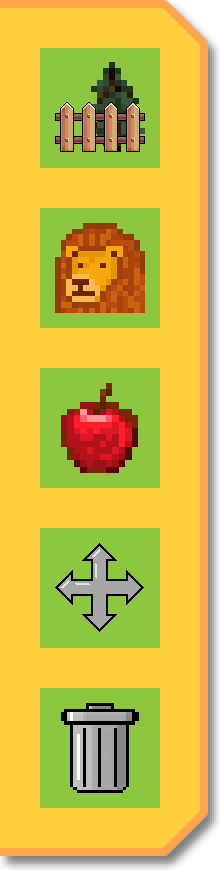
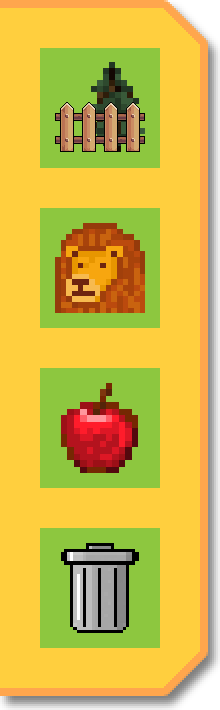
Eliminar menu mover y bugfix al remover habitat

diff --git a/core/src/udec/prog2/project/screens/JuegoScreen.java b/core/src/udec/prog2/project/screens/JuegoScreen.java
@@ -22,9 +22,8 @@ public class JuegoScreen implements Screen {
     private static final int MENU_SIDE_HABITATS = 0;
     private static final int MENU_SIDE_ANIMALES = 1;
     private static final int MENU_SIDE_COMIDAS = 2;
-    private static final int MENU_SIDE_MOVER = 3;
-    private static final int MENU_SIDE_REMOVER = 4;
-    private static final int CANTIDAD_BOTONES_SIDE = 5;
+    private static final int MENU_SIDE_REMOVER = 3;
+    private static final int CANTIDAD_BOTONES_SIDE = 4;
     private static final int FILAS_HABITATS = 3;
     private static final int COLUMNAS_HABITATS = 4;
     private static final int TOTAL_HABITATS = FILAS_HABITATS * COLUMNAS_HABITATS;
@@ -152,7 +151,7 @@ public class JuegoScreen implements Screen {
             for (Textura texturaAnimal : this.texturasAnimales[i]) {
                 final int indexAnimal = this.texturasAnimales[i].indexOf(texturaAnimal);
                 final DestinacionAnimal destinacionAnimal = this.destinacionAnimales[i].get(indexAnimal);
-                if (!texturaAnimal.bordes.getPosition().epsilonEquals(destinacionAnimal.destinacion, 1f)) {
+                if (!texturaAnimal.bordes.getPosition().epsilonEquals(destinacionAnimal.destinacion, 2f)) {
                     texturaAnimal.bordes.x += destinacionAnimal.getDeltaX() * delta;
                     texturaAnimal.bordes.y += destinacionAnimal.getDeltaY() * delta;
                 } else {
@@ -216,7 +215,6 @@ public class JuegoScreen implements Screen {
                     mantenerMenuAbierto = this.menuAnimalesScreen.draw(mousePos, this.acabaDeSeleccionarHabitat);
             case MENU_SIDE_COMIDAS ->
                     mantenerMenuAbierto = this.menuComidaScreen.draw(mousePos, this.acabaDeSeleccionarHabitat);
-//            case MENU_SIDE_MOVER -> this.menuMover(mousePos);
             case MENU_SIDE_REMOVER -> mantenerMenuAbierto = this.menuRemover();
             default -> System.out.println(this.menuSideSeleccionado + " not implemented");
         }
@@ -235,6 +233,7 @@ public class JuegoScreen implements Screen {
         this.texturasHabitats.set(index, texturaHabitat);
         this.texturasAnimales[index].forEach(Textura::dispose);
         this.texturasAnimales[index].clear();
+        this.destinacionAnimales[index].clear();
         return false;
     }
 
@@ -301,11 +300,12 @@ public class JuegoScreen implements Screen {
 
     public void addComidaToHabitat(TipoComida tipo) {
         final int index = this.indexHabitatSeleccionado;
-        boolean success = this.habitats[index].depositarComida(tipo);
-        if (!success) return;
+        this.habitats[index].depositarComida(tipo);
     }
 
     private void moverAnimalRandom(int indexHabitat, int indexAnimal) {
+        if (this.destinacionAnimales[indexHabitat].isEmpty()) return;
+
         final DestinacionAnimal destinacion = this.destinacionAnimales[indexHabitat].get(indexAnimal);
         final Rectangulo bordesHabitat = this.texturasHabitats.get(indexHabitat).bordes;
         final Rectangulo bordesAnimal = this.texturasAnimales[indexHabitat].get(indexAnimal).bordes;

diff --git a/core/src/udec/prog2/project/util/Util.java b/core/src/udec/prog2/project/util/Util.java
@@ -15,8 +15,8 @@ public class Util {
         return Util.color(hexColor, 1);
     }
 
-    public static void setTimeout(Runnable funcion, long delay) {
-        new Thread(() -> {
+    public static Thread setTimeout(Runnable funcion, long delay) {
+        final Thread thread = new Thread(() -> {
             try {
                 Thread.sleep(delay);
             } catch (Exception error) {
@@ -24,7 +24,9 @@ public class Util {
             }
 
             funcion.run();
-        }).start();
+        });
+        thread.start();
+        return thread;
     }
 
     public static float getRandomNumber(float min, float max) {
